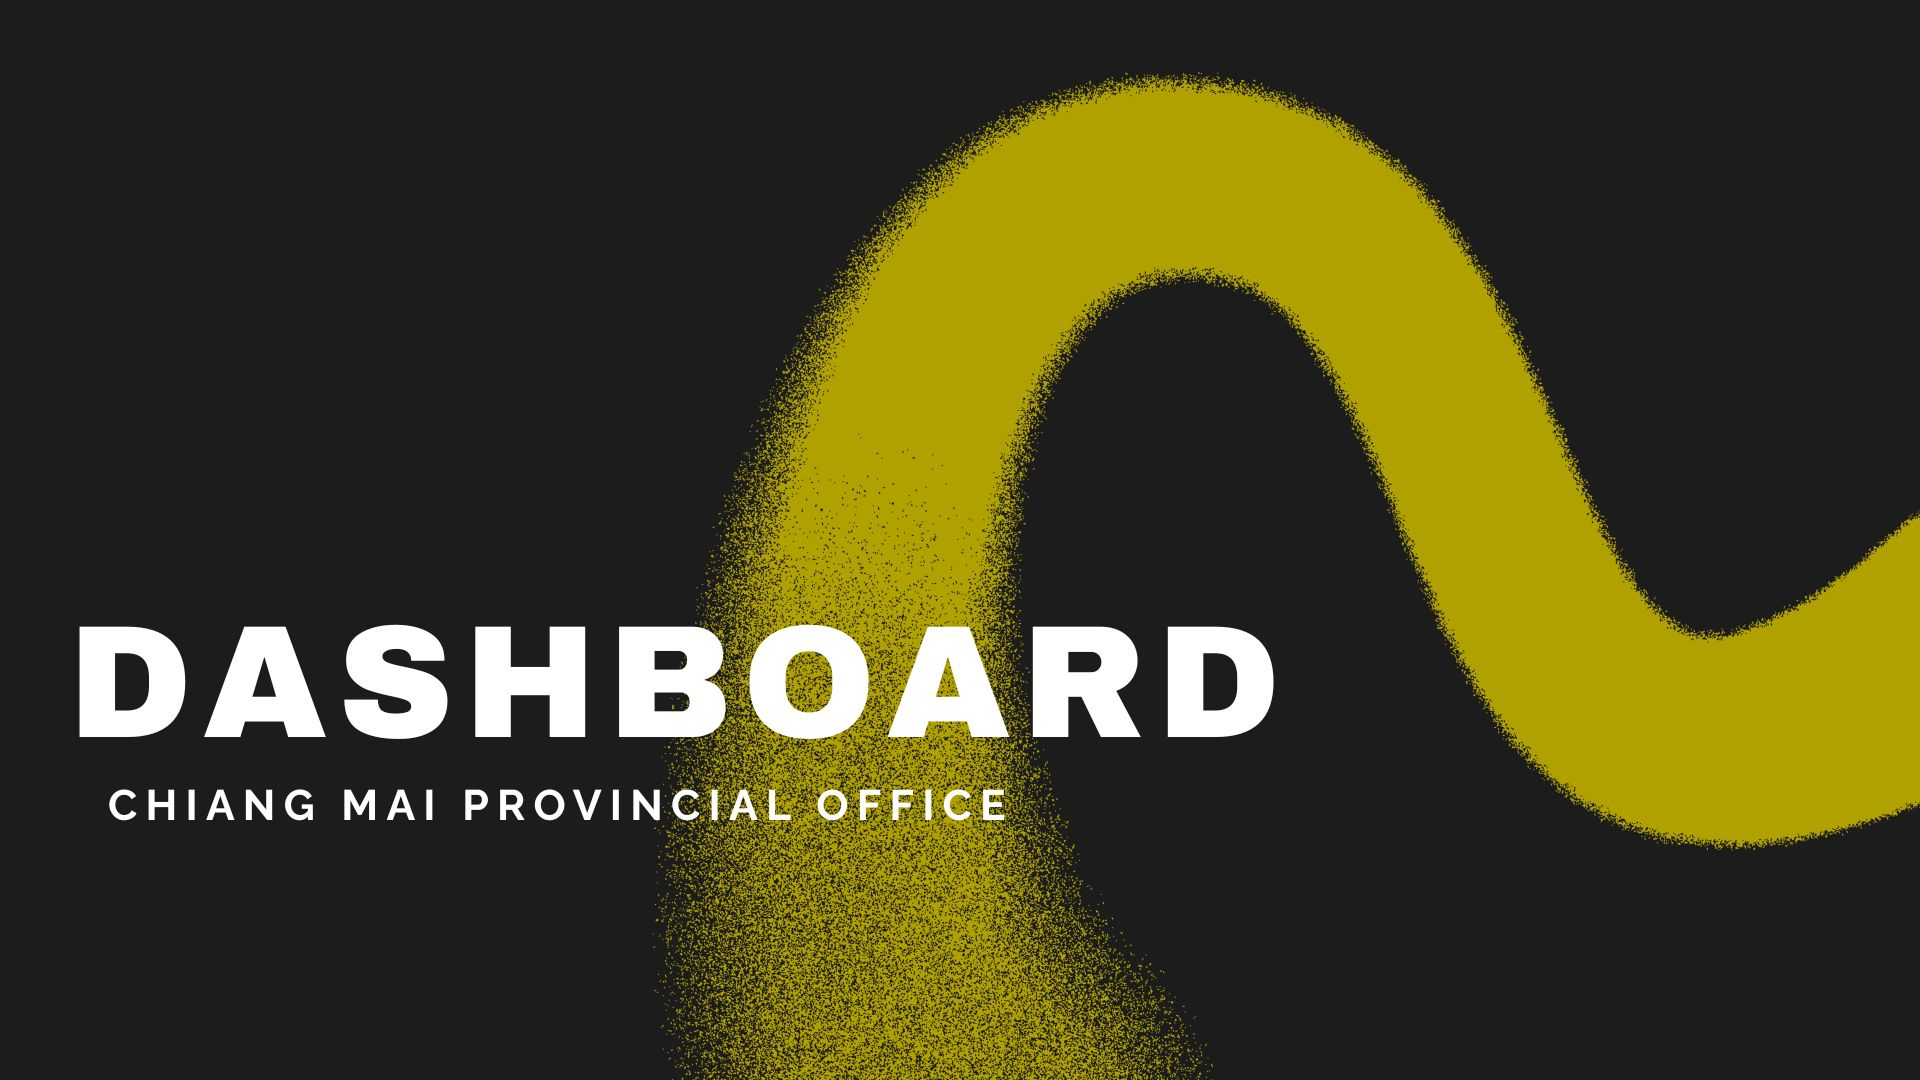
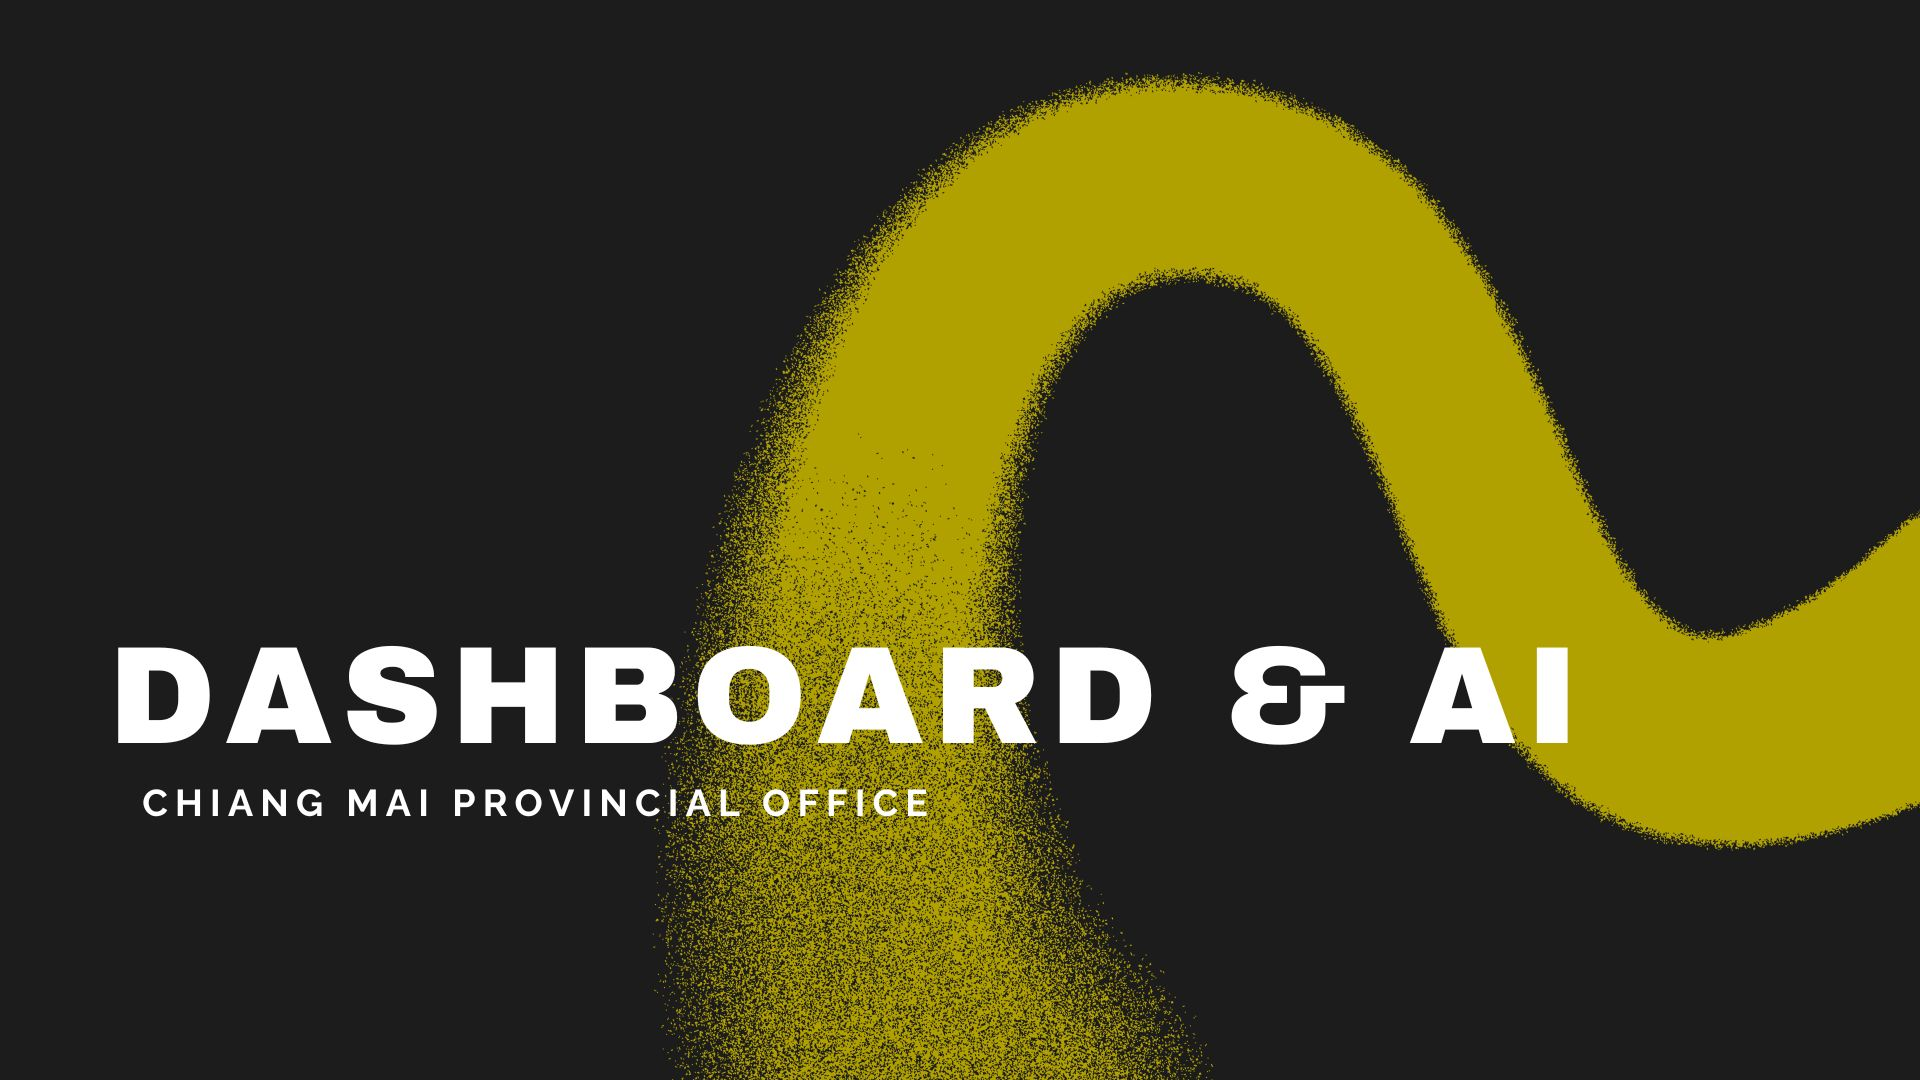
Build Portfolio 22

Changed region(s): [[0.0312, 0.5806, 0.8438, 0.7028], [0.0625, 0.7333, 0.5312, 0.7639]]

diff --git a/src/components/ExperienceSection.tsx b/src/components/ExperienceSection.tsx
@@ -1,0 +1,115 @@
+import { motion } from 'framer-motion';
+import { Briefcase, Calendar } from 'lucide-react';
+
+const experiences = [
+  {
+    role: 'Senior Full-Stack Developer',
+    company: 'Tech Company',
+    location: 'Chiang Mai, Thailand',
+    period: '2022 - Present',
+    description: 'Leading development of enterprise web applications using React, Node.js, and cloud technologies. Managing a team of 5 developers.',
+    highlights: ['Led migration to microservices', 'Improved performance by 40%', 'Mentored junior developers'],
+  },
+  {
+    role: 'Full-Stack Developer',
+    company: 'Digital Agency',
+    location: 'Chiang Mai, Thailand',
+    period: '2020 - 2022',
+    description: 'Built custom web solutions for various clients across e-commerce, healthcare, and finance sectors.',
+    highlights: ['Delivered 20+ client projects', 'Implemented CI/CD pipelines', 'React & Vue expertise'],
+  },
+  {
+    role: 'Frontend Developer',
+    company: 'Startup Inc.',
+    location: 'Remote',
+    period: '2018 - 2020',
+    description: 'Developed responsive web interfaces and single-page applications with focus on user experience.',
+    highlights: ['Built component library', 'A/B testing integration', 'Mobile-first development'],
+  },
+];
+const ExperienceSection = () => {
+  return (
+    <section id="experience" className="relative py-24 px-6">
+      <div className="container mx-auto max-w-4xl">
+        <motion.div
+          initial={{ opacity: 0, y: 40 }}
+          whileInView={{ opacity: 1, y: 0 }}
+          transition={{ duration: 0.8 }}
+          viewport={{ once: true }}
+          className="text-center mb-16"
+        >
+          <h2 className="font-mono text-sm text-muted-foreground mb-4 tracking-widest uppercase">
+            Career Path
+          </h2>
+          <h3 className="text-3xl md:text-5xl font-bold gradient-text font-spartan">
+            Work Experience
+          </h3>
+        </motion.div>
+
+        {/* Timeline */}
+        <div className="relative">
+          {/* Timeline line */}
+          <div className="absolute left-0 md:left-1/2 top-0 bottom-0 w-px bg-border transform md:-translate-x-1/2" />
+
+          {experiences.map((exp, index) => (
+            <motion.div
+              key={exp.role}
+              initial={{ opacity: 0, y: 40 }}
+              whileInView={{ opacity: 1, y: 0 }}
+              transition={{ duration: 0.6, delay: index * 0.2 }}
+              viewport={{ once: true }}
+              className={`relative flex flex-col md:flex-row gap-8 mb-12 ${
+                index % 2 === 0 ? 'md:flex-row-reverse' : ''
+              }`}
+            >
+              {/* Timeline dot */}
+              <div className="absolute left-0 md:left-1/2 w-4 h-4 bg-foreground rounded-full transform -translate-x-1/2 border-4 border-background z-10" />
+
+              {/* Content */}
+              <div className={`flex-1 ${index % 2 === 0 ? 'md:text-right md:pr-12' : 'md:pl-12'} pl-8 md:pl-0`}>
+                <div className={`card-gradient border border-border/50 rounded-2xl p-6 hover:border-foreground/20 transition-all duration-300`}>
+                  {/* Period badge */}
+                  <div className={`flex items-center gap-2 mb-3 ${index % 2 === 0 ? 'md:justify-end' : ''}`}>
+                    <Calendar className="w-4 h-4 text-muted-foreground" />
+                    <span className="font-mono text-xs text-muted-foreground">{exp.period}</span>
+                  </div>
+
+                  {/* Role & Company */}
+                  <h4 className="text-xl font-bold mb-1 font-spartan">{exp.role}</h4>
+                  <div className={`flex items-center gap-2 mb-4 ${index % 2 === 0 ? 'md:justify-end' : ''}`}>
+                    <Briefcase className="w-4 h-4 text-primary/60" />
+                    <span className="font-mono text-sm text-muted-foreground">{exp.company}</span>
+                    <span className="text-muted-foreground">•</span>
+                    <span className="font-mono text-sm text-muted-foreground">{exp.location}</span>
+                  </div>
+
+                  {/* Description */}
+                  <p className="text-muted-foreground text-sm leading-relaxed mb-4">
+                    {exp.description}
+                  </p>
+
+                  {/* Highlights */}
+                  <div className={`flex flex-wrap gap-2 ${index % 2 === 0 ? 'md:justify-end' : ''}`}>
+                    {exp.highlights.map((highlight) => (
+                      <span
+                        key={highlight}
+                        className="px-3 py-1 text-xs font-mono bg-secondary rounded-full text-secondary-foreground"
+                      >
+                        {highlight}
+                      </span>
+                    ))}
+                  </div>
+                </div>
+              </div>
+
+              {/* Spacer for alternate layout */}
+              <div className="hidden md:block flex-1" />
+            </motion.div>
+          ))}
+        </div>
+      </div>
+    </section>
+  );
+};
+
+export default ExperienceSection;

diff --git a/src/components/ProjectsSection.tsx b/src/components/ProjectsSection.tsx
@@ -14,8 +14,8 @@ const projects = [
     featured: true,
   },
   {
-    title: 'Provincial CCTV Dashboard',
-    description: 'System dashboard for monitoring and displaying critical event alerts',
+    title: 'Provincial CCTV Dashboard & AI',
+    description: 'System dashboard for monitoring camera information and displaying critical alerts, featuring person and vehicle detection.',
     organization: 'Chiang Mai Provincial Office',
     tags: ['PHP', 'MySQL', 'HTML', 'JavaScript', 'Tailwind CSS'],
     image: '/Dashboard%20-%20Chiang%20Mai%20Provincial%20Office.jpg',
